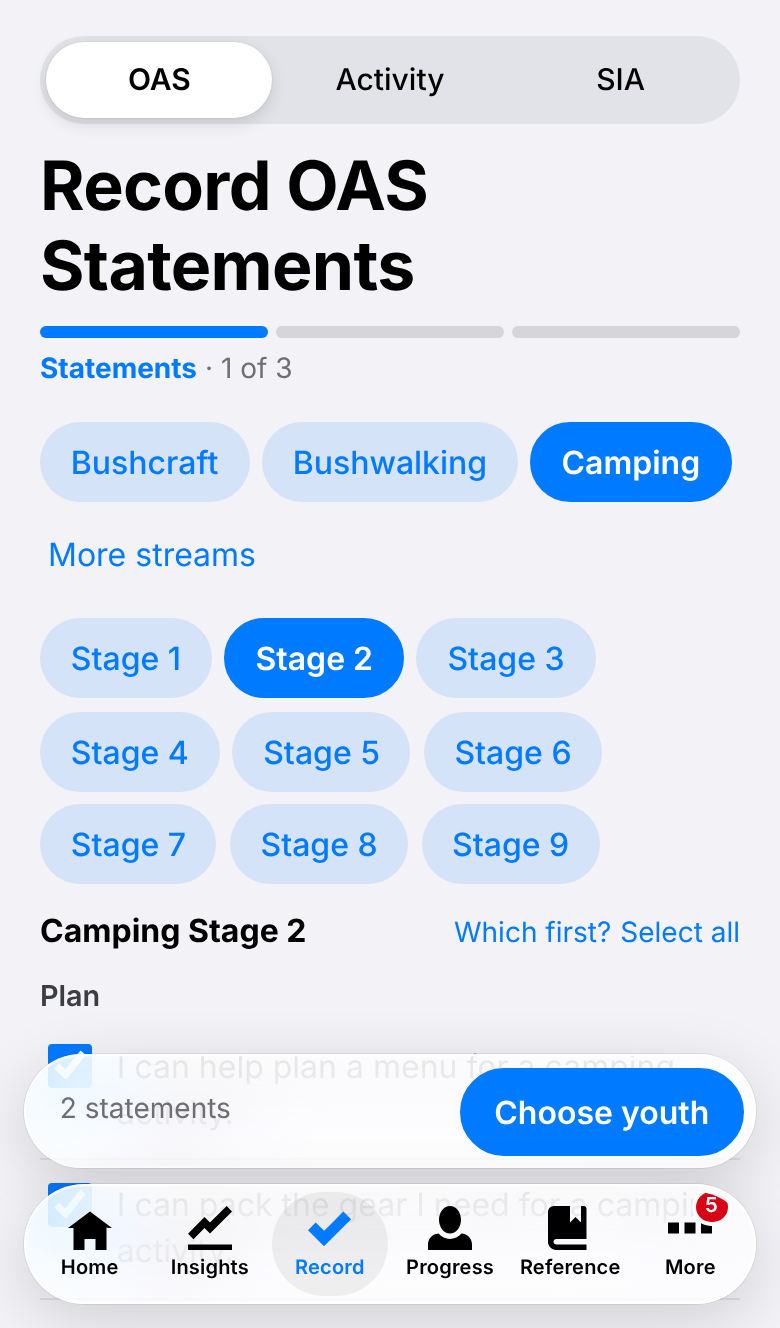
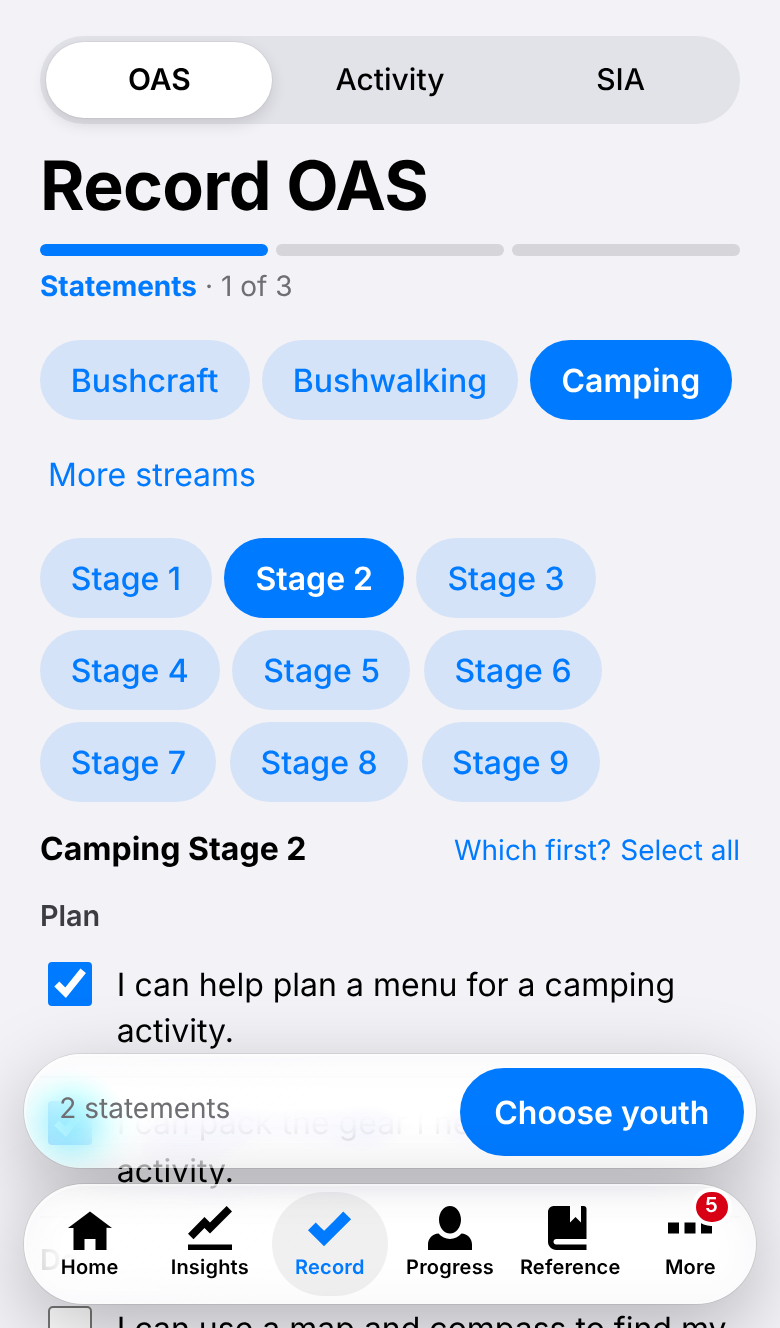
Record: the OAS page's title reads just Record OAS, on one line
Claude-Session: https://claude.ai/code/session_015mRLp29RKmPLuQrvmduhrB

diff --git a/tests/e2e/sign-off.e2e.ts b/tests/e2e/sign-off.e2e.ts
@@ -5,7 +5,7 @@ test('signs off statements for several youth at once', async ({ page }) => {
 	const terrain = await fakeTerrain(page);
 	await logIn(page);
 	await navigate(page, 'oas/sign-off/');
-	await expect(page.locator('h2')).toHaveText('Record OAS Statements');
+	await expect(page.locator('h2')).toHaveText('Record OAS');
 
 	await page.getByRole('button', { name: 'Camping', exact: true }).click();
 	await page.getByRole('button', { name: 'Stage 2', exact: true }).click();

diff --git a/src/routes/oas/sign-off/+page.svelte b/src/routes/oas/sign-off/+page.svelte
@@ -297,7 +297,7 @@
 </script>
 
 <svelte:head>
-	<title>Beacon / Record OAS Statements</title>
+	<title>Beacon / Record OAS</title>
 </svelte:head>
 
 {#snippet resultIcon(outcome: SignOffOutcome)}
@@ -313,7 +313,7 @@
 
 <div class="sign-off has-action-bar">
 	<RecordSwitch />
-	<h2>Record OAS Statements</h2>
+	<h2>Record OAS</h2>
 	<StepBar
 		steps={['Statements', 'Youth', 'Save']}
 		current={['statements', 'youth', 'review'].indexOf(step)}
